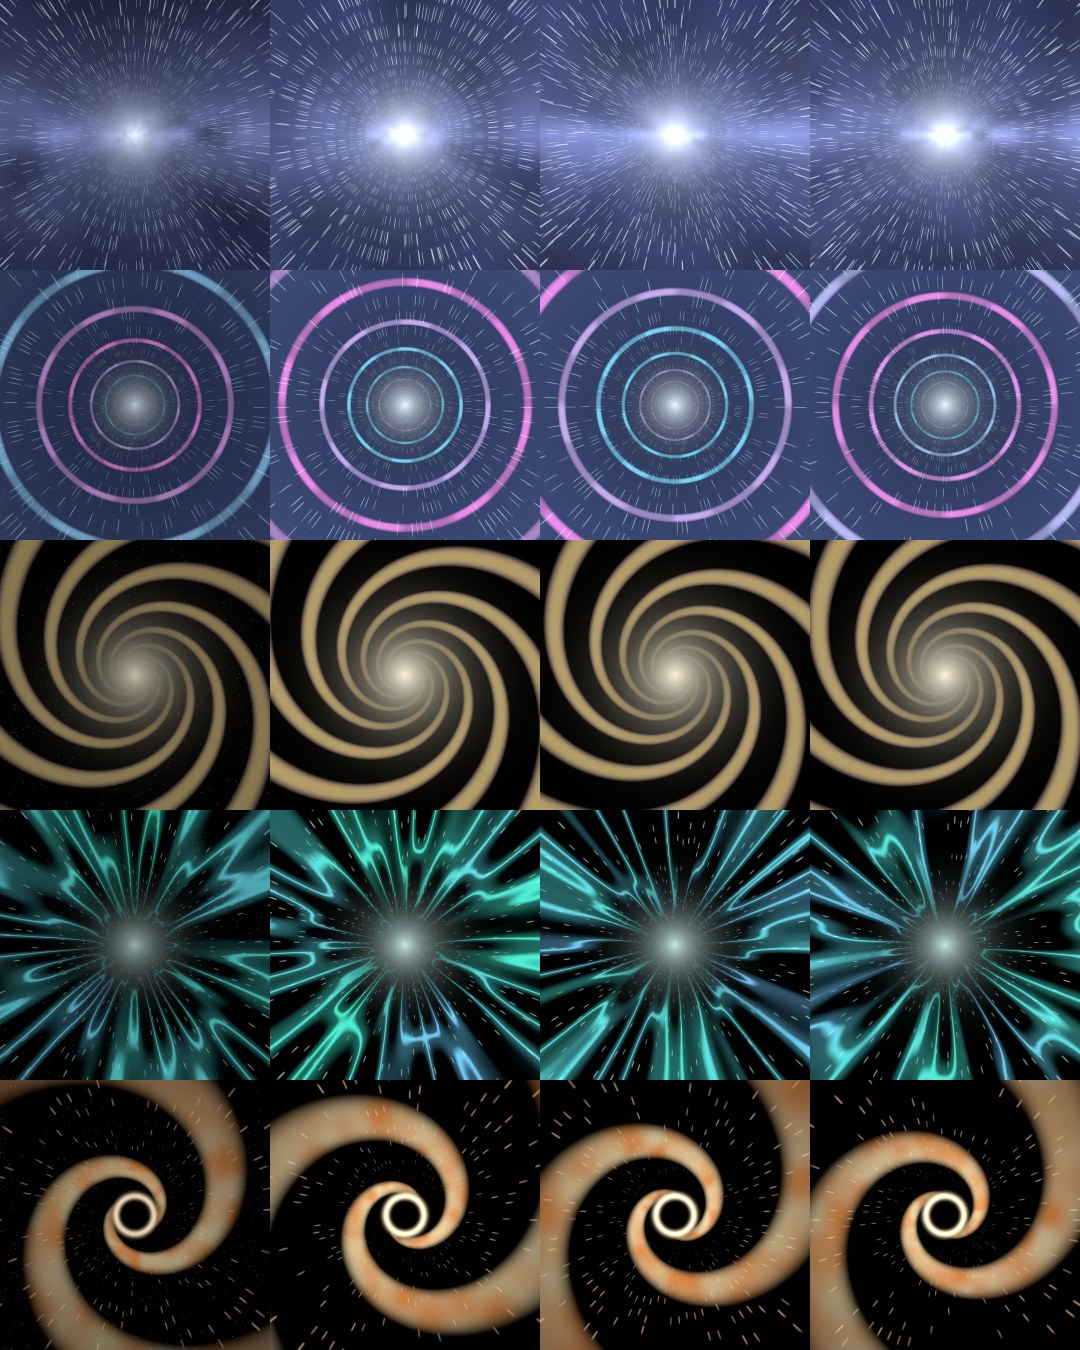
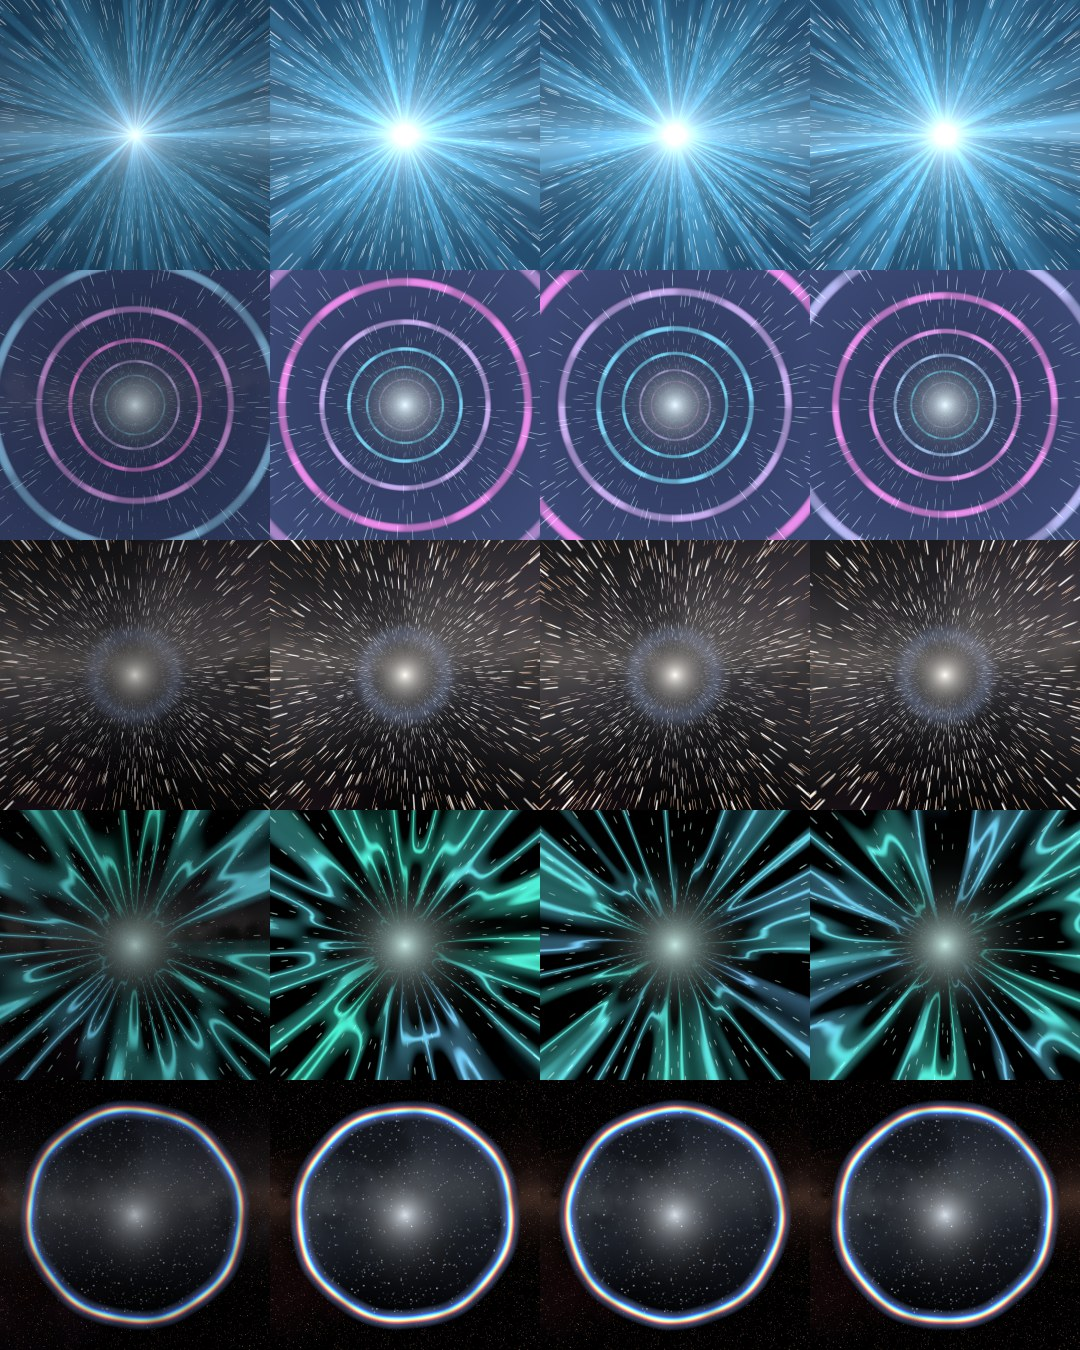
Solar: warp drives without spirals; a blaze of rays, warped starfield, warp bubble
- Lumen Drift: a blue-white blaze, fine rays from a white core in two
  octaves of noise, fast streaks along them and flat sheets of light.
- Fold Drive: space warped, the galaxy drawn toward the heading and
  smeared, stars stretched into streaks (bluer ahead, redder out), a faint
  ring where space folds.
- Bubble Drive (was Graviton Spiral): the ship in a bubble of warped
  space, its shell a shimmering ring split into colour, the stars inside
  bunched toward the heading and bluer, outside stretched and redder.
- Streaks no longer line up into rings: each column of cells is shifted.
- pow(x, 2.0) with negative x (undefined in WGSL) replaced by squares.
- Every drive at four threads (the bubble reads the baked starfield and
  uses smooth bumps for its shell to get there).

Claude-Session: https://claude.ai/code/session_01A2AoKVXyJYHML5Rhnd8ZWU

diff --git a/src/solar/mod.rs b/src/solar/mod.rs
@@ -1887,6 +1887,8 @@ pub(crate) mod tests {
         let gpu = crate::gpu::headless().expect("a GPU adapter");
         let mut solar = Solar::with_seed(&gpu, 11);
         let start = solar.tour.total - tour::JUMP;
+        // The system's starfield baked, as it is long before any jump.
+        settle(&mut solar, &gpu, start);
         let moments = [0.03, 0.12, 0.5, 0.85];
         let mut sheet =
             image::RgbaImage::new(270 * moments.len() as u32, 270 * tour::DRIVES.len() as u32);

diff --git a/src/solar/tour.rs b/src/solar/tour.rs
@@ -37,7 +37,7 @@ pub const DRIVES: [&str; 5] = [
     "Tachyon Tunnel",
     "Fold Drive",
     "Ion Slipstream",
-    "Graviton Spiral",
+    "Bubble Drive",
 ];
 
 /// Field of view, the tangent of half of it.

diff --git a/README.md b/README.md
@@ -68,8 +68,8 @@ Spotify **Premium** account.
   A minimap of the system shows the orbits, the planets, the route and the ship
   ([docs/solar-flyby.jpg](docs/solar-flyby.jpg), [docs/solar-moon.jpg](docs/solar-moon.jpg)), beside a HUD of the
   destination, ETA, distance and real orbital speeds. Each jump uses one of five named drives, each
-  with its own look — Lumen Drift, Tachyon Tunnel, Fold Drive, Ion Slipstream and Graviton Spiral
-  ([docs/solar-warps.jpg](docs/solar-warps.jpg)) — and while in orbit a scanner surveys the planet
+  with its own look — Lumen Drift, Tachyon Tunnel, Fold Drive, Ion Slipstream and Bubble Drive
+  ([docs/solar-warps.jpg](docs/solar-warps.jpg): Lumen Drift a blaze of blue rays, Fold Drive a starfield streaming past warped space, Bubble Drive a lensing bubble round the ship) — and while in orbit a scanner surveys the planet
   with progress bars and results in real units: atmosphere (pressure and gas mix), gravimetry,
   climate, magnetic field, surface radiation and a search for biosignatures
   ([docs/solar-scanner.jpg](docs/solar-scanner.jpg)). Planet maps stream in on the GPU a few rows
